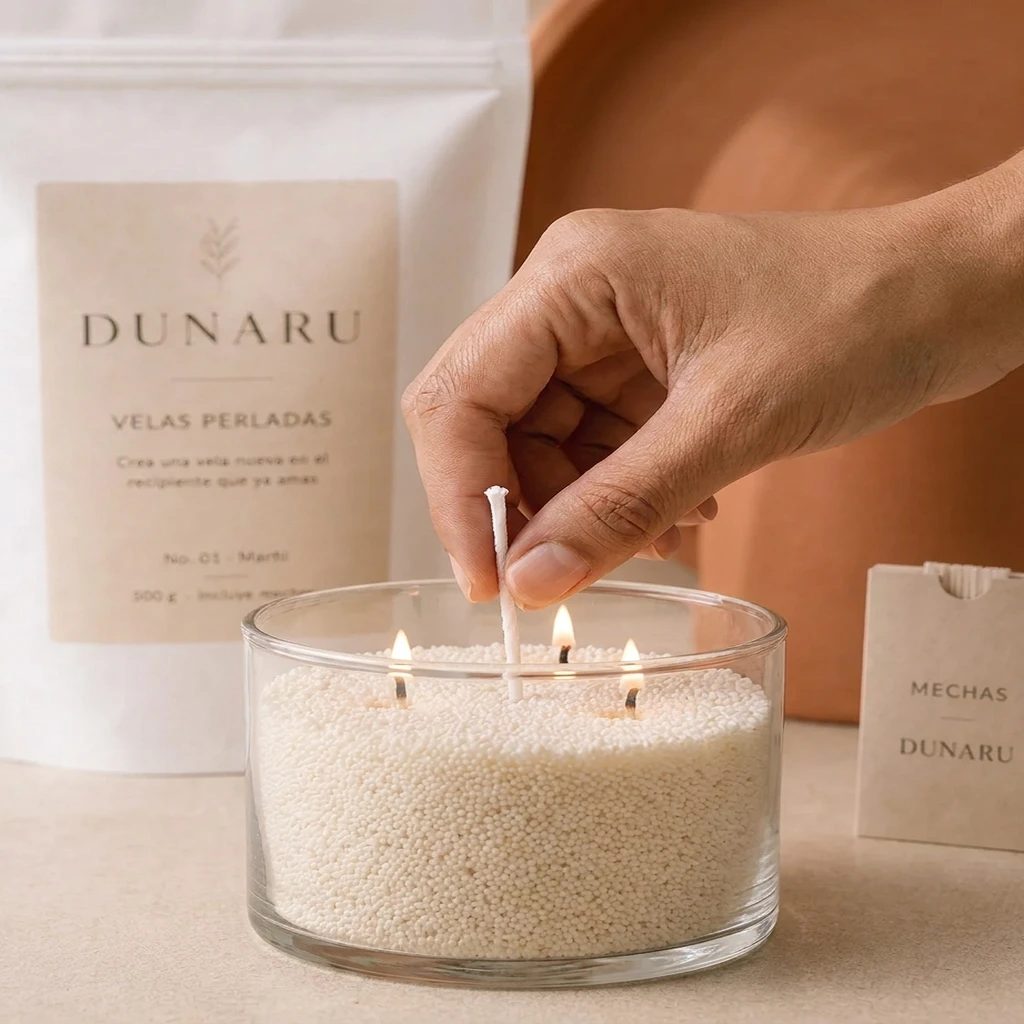
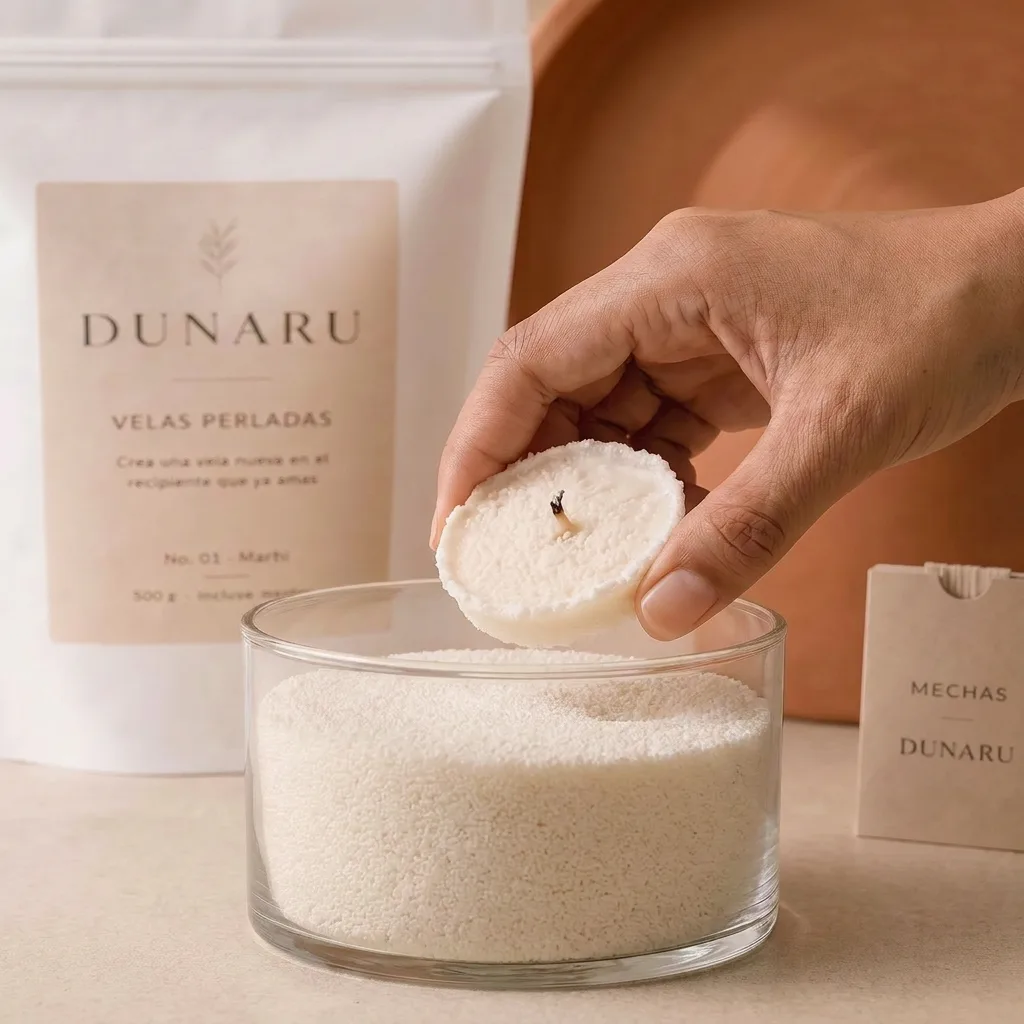
AI: Updated 1 component(s)

diff --git a/src/components/ProductStorySections.tsx b/src/components/ProductStorySections.tsx
@@ -338,6 +338,33 @@ const PDP_CONTENT: Record<string, PdpContent> = {
   },
 }
 
+/**
+ * Pasos reales compartidos con la landing ("Cómo funciona").
+ * Mismos textos e imágenes en todas las PDPs para consistencia.
+ */
+const HOW_IT_WORKS_STEPS: StoryStep[] = [
+  {
+    title: "Vierte",
+    text: "Llena tu recipiente favorito con las perlas. Cualquier vaso, bowl o copa de mínimo 10 cm de diámetro.",
+    image: "/paso-vierte.webp",
+  },
+  {
+    title: "Inserta",
+    text: "Coloca una mecha de algodón en el centro. Sin instrumentos, sin temperatura, sin riesgo.",
+    image: "/paso-inserta.webp",
+  },
+  {
+    title: "Enciende",
+    text: "Prende la mecha. Tu vela ya está lista. Hasta 120 horas de luz con una bolsa de 500 g.",
+    image: "/paso-enciende.webp",
+  },
+  {
+    title: "Renueva",
+    text: "Cuando la mecha se consume, agrega una nueva. Las perlas se reutilizan. Tu recipiente también.",
+    image: "/paso-renueva.webp",
+  },
+]
+
 const GUARANTEES = [
   { icon: Leaf, label: "Libre de parafina" },
   { icon: Flame, label: "Larga duración" },
@@ -381,14 +408,14 @@ export const ProductStorySections = ({ slug }: ProductStorySectionsProps) => {
             Sin moldes, sin desperdicio. Así de simple es tener luz de diseño en casa.
           </p>
           <div className="grid grid-cols-1 sm:grid-cols-2 lg:grid-cols-4 gap-6">
-            {content.steps.map((step, i) => (
+            {HOW_IT_WORKS_STEPS.map((step, i) => (
               <div key={i} className="space-y-4">
                 <div className="relative aspect-square rounded-lg overflow-hidden bg-background/60">
                   <img
                     src={step.image}
-                    alt={step.title}
+                    alt={`Paso ${i + 1}: ${step.title} — vela perlada dunaru`}
                     loading="lazy"
-                    className="w-full h-full object-contain p-6 opacity-60"
+                    className="w-full h-full object-cover"
                   />
                   <span className="absolute top-3 left-3 h-8 w-8 rounded-full bg-foreground text-background flex items-center justify-center font-display text-lg">
                     {i + 1}

diff --git a/.lovivo/plan.md b/.lovivo/plan.md
@@ -29,24 +29,22 @@
 - Badges: `.badge-mas-elegido`, `.badge-mejor-valor`, `.badge-msi`
 - Estética: editorial, mínima, mucho aire. Pocas animaciones. Mobile-first.
 
-## 3. Active Plan — 🔴 FIX PDP: imágenes placeholder en secciones de historia (2026-07-07)
-`ProductStorySections.tsx` usa `PLACEHOLDER = "/placeholder.svg"` en varios bloques → recuadros grises en las PDPs. Reemplazar por fotos reales.
-
-### Estado del bug por producto (`PDP_CONTENT` en `src/components/ProductStorySections.tsx`)
-- **"Crea tu vela en 4 pasos" (steps)**: los 4 pasos usan PLACEHOLDER en los 3 productos. → REUTILIZAR `/paso-vierte.webp`, `/paso-inserta.webp`, `/paso-enciende.webp`, `/paso-renueva.webp` (ya existen). Cambiar render de steps a object-cover (hoy object-contain opacity-60).
+## 3. Active Plan — 🟡 FIX PDP: blocks editoriales aún con placeholder (2026-07-15)
+Los STEPS de la PDP ("Crea tu vela en 4 pasos") YA quedaron con fotos reales (resuelto). Falta arreglar los **blocks** editoriales que siguen con `PLACEHOLDER = "/placeholder.svg"`:
 - **perlas-originales-500-g → blocks**: 4 bloques con PLACEHOLDER. Faltan 4 fotos reales.
-- **kit-vaso-de-vidrio → blocks**: bloque 3 = PLACEHOLDER (faltan 1).
+- **kit-vaso-de-vidrio → blocks**: bloque 3 = PLACEHOLDER (falta 1).
 - **kit-vaso-de-concreto → blocks**: bloques 2 y 3 = PLACEHOLDER (faltan 2).
 
 ## 4. Recent Changes
-- 2026-07-15 — 🧩 FIX layout sección "¿Cómo quieres empezar?" en `IndexUI.tsx`: la tarjeta izquierda (Perlas Originales) dejaba un hueco vacío abajo porque el grid iguala altura con la columna derecha (2 tarjetas apiladas). Ahora la Link + card usan `h-full flex flex-col` y la imagen es `flex-1 min-h-[260px]` para expandirse y llenar el espacio. Columnas parejas.
-- 2026-07-15 — 🎨 FIX imagen `/paso-vierte.webp`: el material se veía como perlas grandes; regenerado con Gemini para que se vea como **arena fina de cera** (gránulos ~1mm). Se usa en paso "Vierte" (Cómo funciona) + "Quiénes somos" (BrandStorySection).
-- 2026-07-07 — 🔍 REVISIÓN VISUAL en vivo landing + PDPs. Landing ✅. Detectado bug placeholder en `ProductStorySections.tsx`. Confirmado rutas `/productos/:slug`.
-- 2026-07-06 — ✅ SPRINT PRE-LANZAMIENTO: fix bug imágenes, "Cómo funciona" con fotos reales, `BrandStorySection`, `ReviewsInvite`, `/devoluciones`, topbar rotativo.
+- 2026-07-15 — ✅ FIX PDP "Crea tu vela en 4 pasos": ahora usa `HOW_IT_WORKS_STEPS` (constante compartida en `ProductStorySections.tsx`) con los MISMOS 4 pasos e imágenes reales de la landing (`/paso-vierte|inserta|enciende|renueva.webp`), render `object-cover` (antes object-contain opacity-60 con placeholder). Igual en los 3 productos.
+- 2026-07-15 — 🖼️ REEMPLAZADA imagen paso "Renueva" (`/paso-renueva.webp`) con foto real subida por el user (mano colocando disco de cera sobre vaso con arena fina). Afecta landing "Cómo funciona" y las PDPs.
+- 2026-07-15 — 🧩 FIX layout sección "¿Cómo quieres empezar?" en `IndexUI.tsx`: tarjeta Perlas usa `h-full flex flex-col` + imagen `flex-1 min-h-[260px]` para llenar hueco. Columnas parejas.
+- 2026-07-15 — 🎨 FIX imagen `/paso-vierte.webp`: material se veía como perlas grandes; regenerado a arena fina (~1mm). Usado en "Vierte" + "Quiénes somos".
+- 2026-07-07 — 🔍 REVISIÓN VISUAL en vivo landing + PDPs. Detectado bug placeholder en `ProductStorySections.tsx`.
+- 2026-07-06 — ✅ SPRINT PRE-LANZAMIENTO: fix bug imágenes, "Cómo funciona" fotos reales, `BrandStorySection`, `ReviewsInvite`, `/devoluciones`, topbar rotativo.
 - 2026-07-06 — 🔍 AUDITORÍA PRE-LANZAMIENTO vs VelaVita.cl + Foton.
 - 2026-07-03 — ✅ LANDING SINCRONIZADA: swaps a fotos reales + hero/casa real regeneradas.
 - 2026-06-30 — V1 CIERRE: 4 lifestyle "casa real" + `CasaRealSection.tsx`.
-- 2026-06-29 — AUDITORÍA V1: 5 gaps.
 - 2026-06-24 — SPRINT 2: PDP editorial perlas. Volume rule (2→10%,3→15%).
 - 2026-06-24 — WhatsApp real `[phone redacted]`.
 - 2026-06-23 — 6 productos + sistema de diseño dunaru + EcommerceTemplate.
@@ -55,22 +53,21 @@
 - **FOTOS REALES (catálogo)**: `product-images/products/<hash>.webp`. 9 productos, 74 imágenes.
 - **Hero**: `/hero-dunaru.webp` — ✅.
 - **Casa real**: `/casa-real-comedor|recibidor|recamara|sala.webp` — ✅.
-- **Cómo funciona / 4 pasos**: `/paso-vierte|inserta|enciende|renueva.webp` — ✅. `paso-vierte.webp` REGENERADO 2026-07-15 (material = arena fina, no perlas grandes). USAR también en steps de PDPs.
-- **PLACEHOLDER (bug)**: varios blocks/steps de `ProductStorySections.tsx` apuntan a `/placeholder.svg`.
-- **OJO consistencia visual**: si se regeneran otras imágenes con producto, el material debe verse como **arena fina**, no perlas grandes.
+- **Cómo funciona / 4 pasos**: `/paso-vierte|inserta|enciende|renueva.webp` — ✅. Compartidos entre landing y PDP (constante `HOW_IT_WORKS_STEPS`). `paso-renueva.webp` REEMPLAZADO 2026-07-15 con foto real del user. `paso-vierte.webp` regenerado a arena fina.
+- **PLACEHOLDER (bug restante)**: solo en `blocks` editoriales de `ProductStorySections.tsx` (ver Active Plan). Los steps YA no usan placeholder.
+- **OJO consistencia visual**: material debe verse como **arena fina**, no perlas grandes.
 
 ## 6. Known Issues
-- 2026-07-07 — PDP story sections con `/placeholder.svg`: recuadros grises. Ver Active Plan.
+- 2026-07-15 — PDP `blocks` editoriales con `/placeholder.svg`: recuadros grises. Ver Active Plan (steps YA resueltos).
 - 2026-06-24 — Descuento de volumen: front no recalcula total carrito; VERIFICAR end-to-end.
 - 2026-06-24 — Regla de envío $99 solo en Perlas: VERIFICAR config real de shipping.
 - 2026-06-24 — "Comprar ahora" NO incluye add-ons seleccionados. Aceptable.
 
 ## 7. Pending / Future Sessions
-- [high] FIX PDP placeholder images (Active Plan) — PRIORIDAD 1 pre-lanzamiento.
+- [high] FIX PDP placeholder en `blocks` editoriales (Active Plan) — faltan ~7 fotos reales.
 - [high] SPRINT video demo (hero/cómo funciona) con `videogen`.
 - [med] Garantía en buy box de PDP (verificar consistencia en los 3).
 - [med] Barra "te faltan $X para envío gratis" en carrito (AOV).
 - [med] VERIFICAR cobro real del descuento por volumen en checkout.
 - [med] Star ratings en product cards (cuando haya reseñas reales).
 - [low] Feed IG/UGC, FAQ en tabs, badge MSI en buy box PDP.
-- [nota] Revisar si otras fotos muestran el material como perlas grandes y corregir a arena fina.